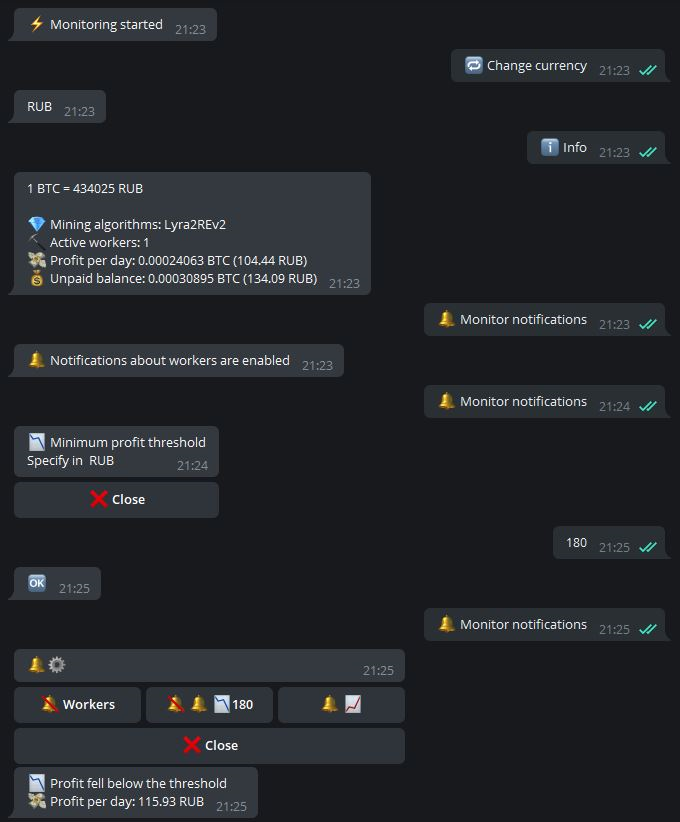
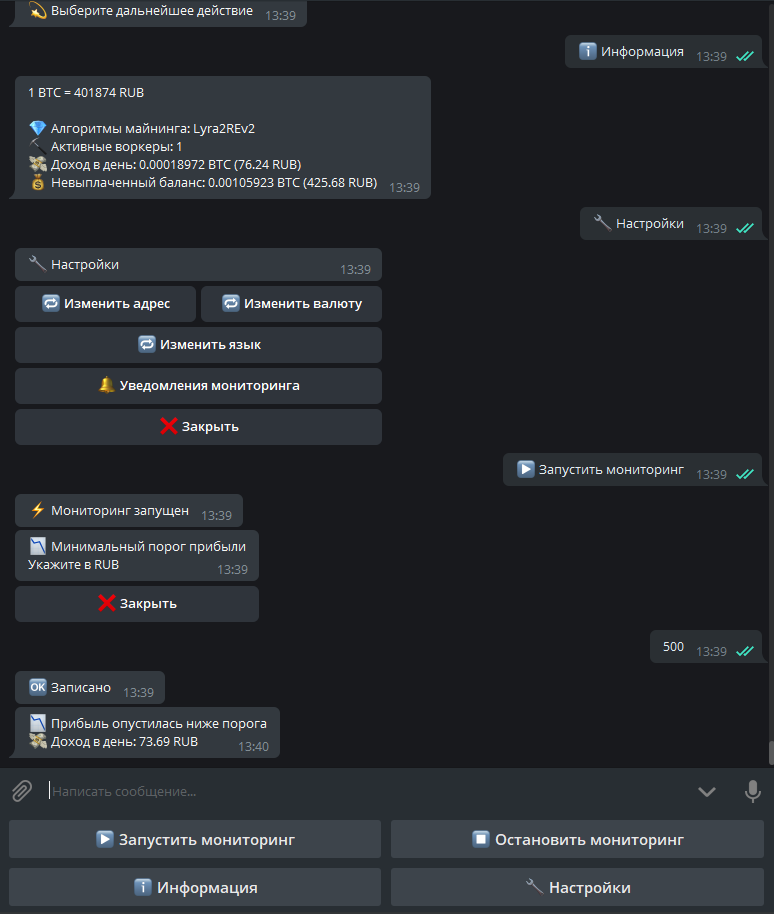
Updated settings menu

diff --git a/app/main.py b/app/main.py
@@ -300,14 +300,11 @@ def set_keyboard(arg, rw):
 	kb_start_m = types.KeyboardButton(text=strings.keyboard_start_monitor)
 	kb_stop_m = types.KeyboardButton(text=strings.keyboard_stop_monitor)
 	kb_f_set_a = types.KeyboardButton(text=strings.keyboard_first_set_address)
-	kb_set_a = types.KeyboardButton(text=strings.keyboard_set_address)
-	kb_set_c = types.KeyboardButton(text=strings.keyboard_set_currency)
-	kb_set_l = types.KeyboardButton(text=strings.keyboard_set_language)
-	kb_set_m_n = types.KeyboardButton(text=strings.keyboard_set_monitor_n)
+	kb_settings = types.KeyboardButton(text=strings.keyboard_settings)
 	if arg == 0:
-		keyboard.add(kb_f_set_a, kb_set_c)
+		keyboard.add(kb_f_set_a)
 	if arg == 1:
-		keyboard.add(kb_start_m, kb_stop_m, kb_set_m_n, kb_set_a, kb_set_c, kb_set_l, kb_data)
+		keyboard.add(kb_start_m, kb_stop_m, kb_data, kb_settings)
 
 
 def check_pr_err_():
@@ -504,6 +501,26 @@ def a(message):
 	_stop_mining_monitoring(message)
 
 
+def _settings_menu(message):
+	if message.chat.id == msg_id:
+		keyboard = types.InlineKeyboardMarkup()
+		btn_s_addr = types.InlineKeyboardButton(text=strings.keyboard_set_address, callback_data='set_addr')
+		btn_s_curr = types.InlineKeyboardButton(text=strings.keyboard_set_currency, callback_data='set_curr')
+		btn_s_lang = types.InlineKeyboardButton(text=strings.keyboard_set_language, callback_data='set_lang')
+		btn_s_mon_n = types.InlineKeyboardButton(text=strings.keyboard_set_monitor_n, callback_data='set_mon_n')
+		button_cancel_sm = types.InlineKeyboardButton(text=strings.cancel, callback_data='cancel')
+		keyboard.row(btn_s_addr, btn_s_curr)
+		keyboard.row(btn_s_lang)
+		keyboard.row(btn_s_mon_n)
+		keyboard.row(button_cancel_sm)
+		bot.send_message(msg_id, strings.keyboard_settings, reply_markup=keyboard)
+
+
+@bot.message_handler(commands=[common_str.settings_menu])
+def a(message):
+	_settings_menu(message)
+
+
 def _set_address(message):
 	if message.chat.id == msg_id:
 		global set_a
@@ -519,50 +536,54 @@ def a(message):
 	_set_address(message)
 
 
-def _0set_language():
-	keyboard = types.InlineKeyboardMarkup()
-	button_ru = types.InlineKeyboardButton(text=common_str.ru, callback_data='ru')
-	button_en = types.InlineKeyboardButton(text=common_str.en, callback_data='en')
-	keyboard.add(button_ru, button_en)
-	if config.get('settings', 'language') == '':
+def __set_language():
+	global lang_sel
+	global monitor
+	global lang_lock
+	global m_fail
+	global p_min_notification
+	global p_max_notification
+	if not lang_lock:
+		lang_lock = True
+		ms_b = monitor
+		monitor = False
+		p_min_notification = False
+		p_max_notification = False
+		keyboard = types.InlineKeyboardMarkup()
+		button_ru = types.InlineKeyboardButton(text=common_str.ru, callback_data='ru')
+		button_en = types.InlineKeyboardButton(text=common_str.en, callback_data='en')
+		keyboard.add(button_ru, button_en)
 		bot.send_message(msg_id, common_str.select_lang, reply_markup=keyboard)
-	else:
-		bot.send_message(msg_id, strings.lang_w, reply_markup=keyboard)
+		lt = lang
+		while not lang_sel:
+			if monitor:
+				m_fail = True
+				break
+		lang_sel = False
+		lang_lock = False
+		if lt != lang:
+			bot.send_message(msg_id, common_str.restarting)
+			subprocess.call('chmod +x restart.sh', shell=True)
+			subprocess.Popen('./restart.sh', shell=True)
+		else:
+			if not m_fail:
+				bot.send_message(msg_id, strings.lang_e)
+				if ms_b:
+					bot.send_message(msg_id, strings.monitor_restart)
+					config.set('settings', 'monitor', '0')
+					save_config()
 
 
 def _set_language(message):
 	if message.chat.id == msg_id:
-		global lang_sel
-		global monitor
-		global lang_lock
-		global m_fail
-		global p_min_notification
-		global p_max_notification
-		if not lang_lock:
-			lang_lock = True
-			ms_b = monitor
-			monitor = False
-			p_min_notification = False
-			p_max_notification = False
-			_0set_language()
-			lt = lang
-			while not lang_sel:
-				if monitor:
-					m_fail = True
-					break
-			lang_sel = False
-			lang_lock = False
-			if lt != lang:
-				bot.send_message(msg_id, common_str.restarting)
-				subprocess.call('chmod +x restart.sh', shell=True)
-				subprocess.Popen('./restart.sh', shell=True)
-			else:
-				if not m_fail:
-					bot.send_message(msg_id, strings.lang_e)
-					if ms_b:
-						bot.send_message(msg_id, strings.monitor_restart)
-						config.set('settings', 'monitor', '0')
-						save_config()
+		if monitor:
+			keyboard = types.InlineKeyboardMarkup()
+			button_ok = types.InlineKeyboardButton(text=strings.yes, callback_data='sl_ok')
+			button_cancel_sl = types.InlineKeyboardButton(text=strings.cancel, callback_data='cancel')
+			keyboard.add(button_ok, button_cancel_sl)
+			bot.send_message(msg_id, strings.lang_w, reply_markup=keyboard)
+		else:
+			__set_language()
 
 
 @bot.message_handler(commands=[common_str.set_language])
@@ -640,6 +661,16 @@ def a(call):
 	global set_pr_min
 	global set_pr_max
 	if call.message:
+
+		if call.data == 'set_addr':
+			_set_address(call.message)
+		if call.data == 'set_curr':
+			_set_currency(call.message)
+		if call.data == 'set_lang':
+			_set_language(call.message)
+		if call.data == 'set_mon_n':
+			_set_notifications(call.message)
+
 		if call.data == 'cancel':
 			bot.edit_message_text(chat_id=call.message.chat.id, message_id=call.message.message_id,
 								  text=strings.cancelled)
@@ -679,6 +710,10 @@ def a(call):
 		if call.data == 'RUB':
 			bot.edit_message_text(chat_id=call.message.chat.id, message_id=call.message.message_id, text=common_str.RUB)
 			convert_t_curr_and_set(call.data)
+
+		if call.data == 'sl_ok':
+			bot.delete_message(chat_id=call.message.chat.id, message_id=call.message.message_id)
+			__set_language()
 
 		if call.data == 'ru':
 			if m_fail:
@@ -790,24 +825,17 @@ def a(message):
 			_start_mining_monitoring(message)
 		if message.text == strings.keyboard_stop_monitor:
 			_stop_mining_monitoring(message)
-		if message.text == strings.keyboard_set_address or message.text == strings.keyboard_first_set_address:
+		if message.text == strings.keyboard_first_set_address:
 			_set_address(message)
-		if message.text == strings.keyboard_set_currency:
-			_set_currency(message)
-		if message.text == strings.keyboard_set_language:
-			_set_language(message)
-		if message.text == strings.keyboard_set_monitor_n:
-			_set_notifications(message)
+		if message.text == strings.keyboard_settings:
+			_settings_menu(message)
 
 		if set_a or set_pr_min or set_pr_max:
 			if message.text != strings.keyboard_data \
 					and message.text != strings.keyboard_start_monitor \
 					and message.text != strings.keyboard_stop_monitor \
-					and message.text != strings.keyboard_set_address \
 					and message.text != strings.keyboard_first_set_address \
-					and message.text != strings.keyboard_set_currency \
-					and message.text != strings.keyboard_set_language \
-					and message.text != strings.keyboard_set_monitor_n:
+					and message.text != strings.keyboard_settings:
 				if set_a:
 					set_address(message.text)
 				if set_pr_min:

diff --git a/app/strings_ru.py b/app/strings_ru.py
@@ -13,6 +13,7 @@ monitor_error = '⚠ Ошибка получения данных, остан
 
 url_error = '⚠ Ошибка получения данных, повторите позже'
 
+yes = 'Да'
 cancel = '❌ Закрыть'
 cancelled = '❌ Закрыто'
 disable_t = '🔕 Отключить порог'
@@ -20,7 +21,7 @@ disable_t = '🔕 Отключить порог'
 select_curr = '✅ Выберите валюту для отображения'
 
 lang_e = '❌ Этот язык уже выбран'
-lang_w = '⏳ Это действие может занять некоторое время'
+lang_w = '⚠ Данное действие сбросит мониторинг и займет некоторое время. Продолжить?'
 
 mining_algo = '💎 Алгоритмы майнинга: '
 workers_active = '⛏ Активные воркеры: '
@@ -40,6 +41,7 @@ keyboard_data = 'ℹ Информация'
 keyboard_start_monitor = '▶ Запустить мониторинг'
 keyboard_stop_monitor = '⏹ Остановить мониторинг'
 keyboard_first_set_address = '🔧 Ввести адрес'
+keyboard_settings = '🔧 Настройки'
 keyboard_set_address = '🔁 Изменить адрес'
 keyboard_set_currency = '🔁 Изменить валюту'
 keyboard_set_language = '🔁 Изменить язык'

diff --git a/app/strings_en.py b/app/strings_en.py
@@ -13,6 +13,7 @@ monitor_error = '⚠ Error'
 
 url_error = '⚠ Error. Try again later'
 
+yes = 'Yes'
 cancel = '❌ Close'
 cancelled = '❌ Closed'
 disable_t = '❌ Disable threshold'
@@ -20,7 +21,7 @@ disable_t = '❌ Disable threshold'
 select_curr = '✅ Select the currency'
 
 lang_e = '❌ This language has already been selected'
-lang_w = '⏳ This action may take some time'
+lang_w = '⚠ This action will reset the monitoring and take some time. Continue?'
 
 mining_algo = '💎 Mining algorithms: '
 workers_active = '⛏ Active workers: '
@@ -40,6 +41,7 @@ keyboard_data = 'ℹ Info'
 keyboard_start_monitor = '▶ Start monitoring'
 keyboard_stop_monitor = '⏹ Stop monitoring'
 keyboard_first_set_address = '🔧 Set BTC-address'
+keyboard_settings = '🔧 Settings'
 keyboard_set_address = '🔁 Change BTC-address'
 keyboard_set_currency = '🔁 Change currency'
 keyboard_set_language = '🔁 Change language'

diff --git a/app/common_str.py b/app/common_str.py
@@ -5,6 +5,7 @@ start = 'start'
 get_mining_data = 'data'
 start_mining_monitoring = 'start_monitor'
 stop_mining_monitoring = 'stop_monitor'
+settings_menu = 'settings'
 set_address = 'set_address'
 set_currency = 'set_currency'
 set_language = 'set_language'
